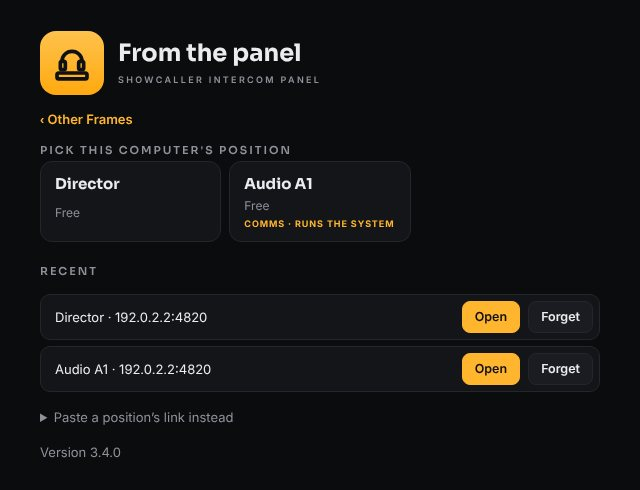
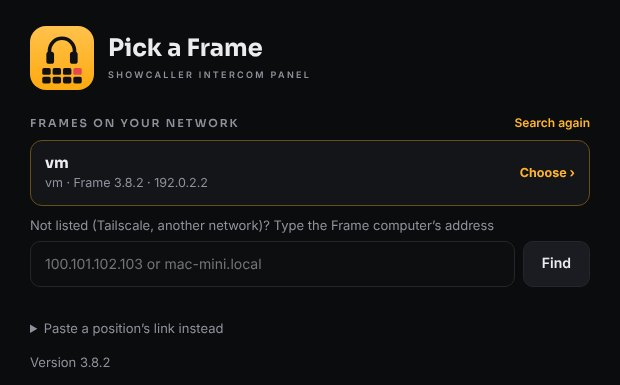
Intercom page: phone lines (VoIP), Pick a Frame, Comms-only settings
Adds the 3.8 phone lines and phone IFB (with screenshot, FAQ and
license note), the new Panel app Pick a Frame screen and Tailscale
address box, panels can't change settings, and Comms pages for lines,
crew, ports and tally. Hub catalog links Frame, Panel and Comms to
their sections.

Claude-Session: https://claude.ai/code/session_01XiUX5Go1PZbMJ3V3yv3vhs

diff --git a/public/intercom/index.html b/public/intercom/index.html
@@ -250,7 +250,7 @@ footer .wrap { padding-block: 26px; display: flex; flex-wrap: wrap; gap: 8px 24p
     <div class="facts">
       <div><b>Party lines and IFB</b><span>Calls, Reply, cue lights, cues, tally</span></div>
       <div><b>A panel per position</b><span>Install, type the code, pick your seat</span></div>
-      <div><b>Crew on any phone</b><span>A link or QR code, here or anywhere</span></div>
+      <div><b>Crew on any phone</b><span>A link, a QR code or a phone call</span></div>
       <div><b>Free for 4 crew</b><span>A key takes the whole crew</span></div>
     </div>
   </div>
@@ -328,7 +328,7 @@ footer .wrap { padding-block: 26px; display: flex; flex-wrap: wrap; gap: 8px 24p
         <div class="ftxt">
           <h3>Run the whole system from the control room.</h3>
           <p>Showcaller Intercom Comms joins the Frame as the Comms position and opens every Frame page from the control room, with your own key panel docked beside them. No one has to walk to the rack.</p>
-          <ul class="ticks"><li>Live: alerts for anything wrong, with the fix one click away</li><li>Listen in, mute someone's mic, cut their talk or call them</li><li>Copy a link, show a QR code or disconnect anyone</li><li>Calls from every panel and crew member, in one list</li></ul>
+          <ul class="ticks"><li>Live: alerts for anything wrong, with the fix one click away</li><li>Listen in, mute someone's mic, cut their talk or call them</li><li>Invite crew, copy a link, show a QR code or disconnect anyone</li><li>Lines, crew, ports and tally each on their own page</li><li>Calls from every panel and crew member, in one list</li></ul>
         </div>
         <figure class="shot"><img src="/media/intercom-comms.jpg" width="1440" height="864" alt="The Comms app's Live page: alerts for two IFBs that aren't connected with Copy their link buttons, a table of every crew member and position with their lines, level, delay and Listen in, Mute mic and Call buttons, and the comms engineer's own key panel docked on the right" loading="lazy"></figure>
       </div>
@@ -351,16 +351,16 @@ footer .wrap { padding-block: 26px; display: flex; flex-wrap: wrap; gap: 8px 24p
       <div class="feature">
         <div class="ftxt">
           <h3>Install it, then pick your seat.</h3>
-          <p>Showcaller Intercom Panel is a small app for each control-room computer. It finds the Frames on the network. Type the Frame's six-digit code, pick the position, and that computer is the Director's panel, or Audio's, or Graphics'.</p>
-          <ul class="ticks"><li>The code is on the Frame's Panels page; make a new one any time</li><li>See which positions are free before you pick one</li><li>The Comms app does the same for the Comms position</li><li>Recent positions open again with one click</li><li>Or paste a position's link, or open it on an iPad with the Intercom app</li></ul>
+          <p>Showcaller Intercom Panel is a small app for each control-room computer. It lists the Frames on the network; choose one, type its six-digit code and pick the position, and that computer is the Director's panel, or Audio's, or Graphics'.</p>
+          <ul class="ticks"><li>The code is on the Frame's Panels page; make a new one any time</li><li>Over Tailscale or another network, type the Frame's address instead</li><li>See which positions are free before you pick one</li><li>The Comms app does the same for the Comms position</li><li>Recent positions open again with one click, and the app tells you if a position was removed</li><li>Or paste a position's link, or open it on an iPad with the Intercom app</li></ul>
         </div>
-        <figure class="shot"><img src="/media/intercom-panel-pick.jpg" width="640" height="490" alt="The Panel app's pick a position page: Director and Audio A1 shown as free, Audio A1 marked Comms, runs the system, with recent positions to open again" loading="lazy"></figure>
+        <figure class="shot"><img src="/media/intercom-panel-pick.jpg" width="620" height="385" alt="The Panel app's Pick a Frame page: the Frames found on the network with a Choose button, a box to type a Frame's address for Tailscale or another network, and a link to paste a position's link instead" loading="lazy"></figure>
       </div>
       <div class="feature flip">
         <div class="ftxt">
           <h3>Every line and every person, one key away.</h3>
           <p>A panel shows the party lines with CALL, LISTEN, TALK and volume, a TALK and CALL key for each person and each other panel, the talent IFBs, cue lights and text cues. Lit edges show who's on air and who's in preview.</p>
-          <ul class="ticks"><li>Tap a key to latch it, hold it to talk while it's down</li><li>Hold CALL to flash a line or a person, the way a hardware panel does</li><li>Whoever called you or talked to you last is on REPLY</li><li>ALL CALL to talk to everyone at once</li><li>F1 to F8 for each line, Space for the first, M for mic off</li></ul>
+          <ul class="ticks"><li>Tap a key to latch it, hold it to talk while it's down</li><li>Hold CALL to flash a line or a person, the way a hardware panel does</li><li>Whoever called you or talked to you last is on REPLY</li><li>ALL CALL to talk to everyone at once</li><li>F1 to F8 for each line, Space for the first, M for mic off</li><li>Panels talk and listen; only Comms changes settings or invites crew</li></ul>
         </div>
         <figure class="shot"><img src="/media/intercom-panel-position.jpg" width="1440" height="900" alt="A panel with party lines, TALK keys for crew and other panels, talent IFBs, cue lights and messages" loading="lazy"></figure>
       </div>
@@ -419,6 +419,14 @@ footer .wrap { padding-block: 26px; display: flex; flex-wrap: wrap; gap: 8px 24p
 <section id="connect">
   <div class="wrap">
     <div class="head"><div class="eyebrow">Connect</div><h2>Works with the comms you already have.</h2></div>
+    <div class="feature">
+      <div class="ftxt">
+        <h3>Phone lines, for anyone with a phone.</h3>
+        <p>Add a phone line and anyone can dial a phone number into a party line. Or add a phone IFB, and a presenter on the phone hears the program feed and whoever talks to them. It answers by itself, and it can call out too.</p>
+        <ul class="ticks"><li>Uses a SIP account from a phone provider that supports WebSocket, such as Telnyx, Twilio, 3CX or FreePBX</li><li>Choose the lines it talks on and sends out, and voice-activated talk</li><li>One call per phone line; add more lines for more callers</li><li>The caller shows on Live, and the password never leaves the computer running the intercom</li></ul>
+      </div>
+      <figure class="shot"><img src="/media/intercom-phone-line.jpg" width="1300" height="654" alt="4-wire, Dante and phone: buttons to add a 4-wire port, a Dante connection, a Dante IFB, an IP port, a phone line or a phone IFB, and a phone line's card with its phone server, SIP address, password, a number to call out with Call and Hang up, and the lines it sends out and talks on" loading="lazy"></figure>
+    </div>
     <div class="grid">
       <div class="feat"><h3>4-wire ports</h3><p>Plug in a Clear-Com, RTS or Riedel matrix, or a 2-wire party line through a converter. A port is one more member of your lines, with mix-minus so there's no echo.</p></div>
       <div class="feat"><h3>Dante ready</h3><p>Pick any channel from 1 to 64 on Dante Virtual Soundcard or a multichannel audio interface, with routing laid out like Dante Controller. Talent IFB can go out on a Dante channel too.</p></div>
@@ -436,7 +444,7 @@ footer .wrap { padding-block: 26px; display: flex; flex-wrap: wrap; gap: 8px 24p
     <div class="license">
       <div><b>Free for 4 crew</b><span>Up to 4 crew at once, with every feature, on Intercom or Frame: lines, IFB, tally, cues, ports and the apps.</span></div>
       <div><b>An Intercom key</b><span>A key takes the whole crew. Intercom is licensed on its own; a Showcaller Screens key doesn't unlock it.</span></div>
-      <div><b>Panels and ports don't count</b><span>Panel positions, 4-wire, Dante and IP ports, and linked intercoms aren't counted toward the crew limit.</span></div>
+      <div><b>Panels and ports don't count</b><span>Panel positions, 4-wire, Dante, IP and phone lines, and linked intercoms aren't counted toward the crew limit.</span></div>
       <div><b>Installed by Showcaller Hub</b><span><a href="/apps/">Showcaller Hub</a> installs it, keeps it up to date and holds the key with your others.</span></div>
     </div>
   </div>
@@ -467,11 +475,12 @@ footer .wrap { padding-block: 26px; display: flex; flex-wrap: wrap; gap: 8px 24p
       <details><summary>Do crew need to install anything?</summary><p>No. They open their link or scan the QR code and they're on. The free iPhone and iPad app is for crew who want comms to keep working with the screen locked; a phone browser stops the microphone when the screen locks.</p></details>
       <details><summary>Does it work over the internet?</summary><p>Yes, for crew. Turn on From anywhere and their links work from any connection through showcallerstudio.com. Panels and the Comms app connect on the show network, or over Tailscale from somewhere else.</p></details>
       <details><summary>What happens if the Frame stops?</summary><p>Set up a second computer as a backup Frame. It keeps a copy of the show and takes over within seconds; crew pages move to it on their own. The iPad app reconnects by its own link, so use from-anywhere links for iPads that should follow.</p></details>
+      <details><summary>Can someone join by phone call?</summary><p>Yes. Add a phone line with a SIP account from your phone provider and anyone can dial in to a party line, or a presenter can dial in as an IFB. You need a provider that supports SIP over WebSocket, such as Telnyx, Twilio, 3CX or a FreePBX system.</p></details>
       <details><summary>Can it connect to our Clear-Com, RTS or Riedel system?</summary><p>Yes, through 4-wire ports on an audio interface or over Dante. Each port joins the lines you choose, so people on your hardware beltpacks talk straight to the crew on phones and panels. Tell us what you have and we'll help set it up.</p></details>
       <details><summary>Where does tally come from?</summary><p>From <a href="/switcher/">Showcaller Switcher</a> on the same network. Give each camera operator their switcher input and their phone shows on air and preview.</p></details>
       <details><summary>How much will it cost?</summary><p>It's free for up to 4 crew at once. Pricing for a key that takes the whole crew will be set when it's out of testing.</p></details>
     </div>
-    <p class="legal">Clear-Com, RTS, Riedel, Dante and Tailscale are trademarks of their owners. Showcaller Intercom isn't made by or affiliated with them. iPhone, iPad and App Store are trademarks of Apple Inc.</p>
+    <p class="legal">Clear-Com, RTS, Riedel, Dante, Tailscale, Telnyx, Twilio, 3CX and FreePBX are trademarks of their owners. Showcaller Intercom isn't made by or affiliated with them. iPhone, iPad and App Store are trademarks of Apple Inc.</p>
   </div>
 </section>
 
